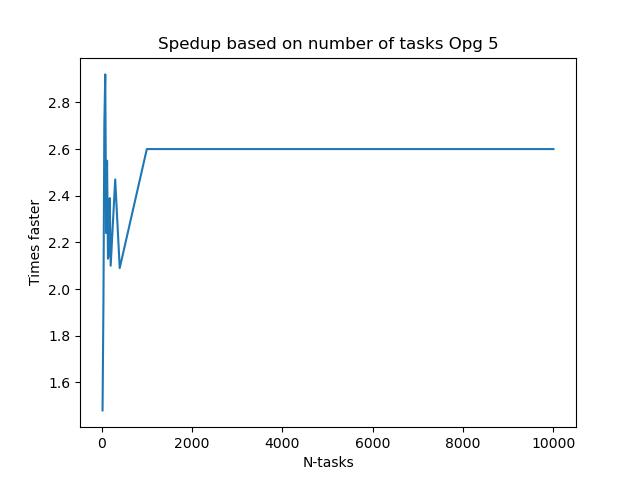
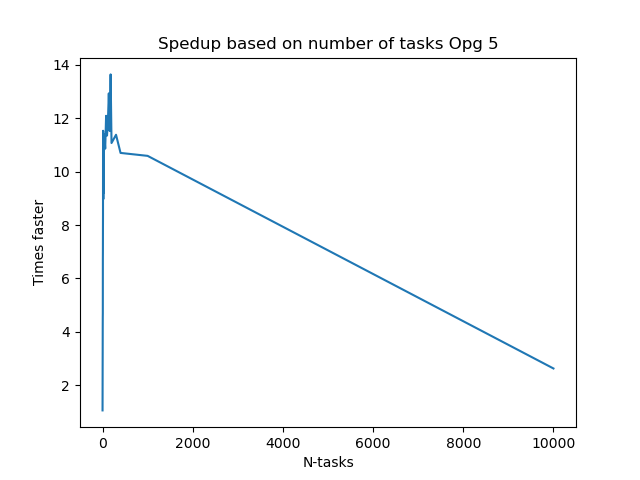
Plots

diff --git a/bin/plot3.py b/bin/plot3.py
@@ -4,7 +4,8 @@ x = [1, 2, 3, 4, 5, 6, 7, 8, 9, 10, 11, 12, 13, 14, 15, 16, 17, 18, 19, 20, 40, 
 # y_3 = [1.67, 2.83, 2.75, 2.11, 2.49, 1.78, 2.72, 2.29, 2.13, 3.25, 2.22, 1.95, 2.62, 2.01] # old
 # y_5 = [2.11, 2.17, 2.34, 2.35, 2.42, 1.59, 1.87, 1.99, 2.00, 1.87, 1.92, 1.87, 2.11, 1.95]  # old
 # y_3 = [1.56, 1.50, 2.41, 2.54, 2.91, 2.72, 3.28, 2.54, 3.48, 1.59, 2.88, 2.42, 3.43, 1.89]
-y_5 = [1.48, 1.95, 2.71, 2.92, 2.24, 2.55, 2.13, 2.15, 2.39, 2.10, 2.47, 2.09, 2.60, 2.60]
+# y_5 = [1.48, 1.95, 2.71, 2.92, 2.24, 2.55, 2.13, 2.15, 2.39, 2.10, 2.47, 2.09, 2.60, 2.60]
+y_5 = [1.060, 1.830, 2.640, 3.240, 4.110, 4.560, 4.690, 6.720, 7.030, 7.910, 8.370, 10.88, 10.85, 11.53, 9.180, 11.18, 9.390, 8.970, 9.640, 9.680, 11.39, 10.86, 12.09, 11.35, 11.88, 12.93, 11.52, 13.64, 11.07, 11.38, 10.70, 10.59, 2.630]
 
 y_3 = [1.00, 2.01, 2.96, 3.92, 4.89, 5.54, 3.52, 3.94, 4.46, 4.91, 5.28, 5.46, 4.36, 4.58, 4.94, 4.95, 5.42, 4.61, 4.74, 4.92, 5.49, 5.62, 5.70, 5.90, 5.91, 5.95, 6.01, 5.96, 5.96, 5.56, 5.78, 5.06, 2.01]
 

diff --git a/src/plot3.py b/src/plot3.py
@@ -4,7 +4,8 @@ x = [1, 2, 3, 4, 5, 6, 7, 8, 9, 10, 11, 12, 13, 14, 15, 16, 17, 18, 19, 20, 40, 
 # y_3 = [1.67, 2.83, 2.75, 2.11, 2.49, 1.78, 2.72, 2.29, 2.13, 3.25, 2.22, 1.95, 2.62, 2.01] # old
 # y_5 = [2.11, 2.17, 2.34, 2.35, 2.42, 1.59, 1.87, 1.99, 2.00, 1.87, 1.92, 1.87, 2.11, 1.95]  # old
 # y_3 = [1.56, 1.50, 2.41, 2.54, 2.91, 2.72, 3.28, 2.54, 3.48, 1.59, 2.88, 2.42, 3.43, 1.89]
-y_5 = [1.48, 1.95, 2.71, 2.92, 2.24, 2.55, 2.13, 2.15, 2.39, 2.10, 2.47, 2.09, 2.60, 2.60]
+# y_5 = [1.48, 1.95, 2.71, 2.92, 2.24, 2.55, 2.13, 2.15, 2.39, 2.10, 2.47, 2.09, 2.60, 2.60]
+y_5 = [1.060, 1.830, 2.640, 3.240, 4.110, 4.560, 4.690, 6.720, 7.030, 7.910, 8.370, 10.88, 10.85, 11.53, 9.180, 11.18, 9.390, 8.970, 9.640, 9.680, 11.39, 10.86, 12.09, 11.35, 11.88, 12.93, 11.52, 13.64, 11.07, 11.38, 10.70, 10.59, 2.630]
 
 y_3 = [1.00, 2.01, 2.96, 3.92, 4.89, 5.54, 3.52, 3.94, 4.46, 4.91, 5.28, 5.46, 4.36, 4.58, 4.94, 4.95, 5.42, 4.61, 4.74, 4.92, 5.49, 5.62, 5.70, 5.90, 5.91, 5.95, 6.01, 5.96, 5.96, 5.56, 5.78, 5.06, 2.01]
 

diff --git a/bin/plot4.py b/bin/plot4.py
@@ -38,10 +38,17 @@ data_4 = [
 
 # data_5 = [[0.106361, 0.079162, 0.078486, 0.049976, 0.034296], [0.091244, 0.079936, 0.047931, 0.051310, 0.040113], [0.106956, 0.078486, 0.056372, 0.049171, 0.049484]] # old
 
+# data_5 = [
+#     [0.94, 1.53, 1.81, 2.11, 2.34],
+#     [0.93, 1.44, 1.43, 2.49, 2.20],
+#     [0.85, 1.34, 1.99, 2.03, 2.09]
+# ]
+
+
 data_5 = [
-    [0.94, 1.53, 1.81, 2.11, 2.34],
-    [0.93, 1.44, 1.43, 2.49, 2.20],
-    [0.85, 1.34, 1.99, 2.03, 2.09]
+    [0.950, 2.810, 5.600, 10.19, 11.51],
+    [1.090, 2.630, 5.820, 10.59, 18.58],
+    [0.930, 2.480, 5.190, 6.390, 11.20]
 ]
 
 

diff --git a/src/plot4.py b/src/plot4.py
@@ -38,10 +38,17 @@ data_4 = [
 
 # data_5 = [[0.106361, 0.079162, 0.078486, 0.049976, 0.034296], [0.091244, 0.079936, 0.047931, 0.051310, 0.040113], [0.106956, 0.078486, 0.056372, 0.049171, 0.049484]] # old
 
+# data_5 = [
+#     [0.94, 1.53, 1.81, 2.11, 2.34],
+#     [0.93, 1.44, 1.43, 2.49, 2.20],
+#     [0.85, 1.34, 1.99, 2.03, 2.09]
+# ]
+
+
 data_5 = [
-    [0.94, 1.53, 1.81, 2.11, 2.34],
-    [0.93, 1.44, 1.43, 2.49, 2.20],
-    [0.85, 1.34, 1.99, 2.03, 2.09]
+    [0.950, 2.810, 5.600, 10.19, 11.51],
+    [1.090, 2.630, 5.820, 10.59, 18.58],
+    [0.930, 2.480, 5.190, 6.390, 11.20]
 ]
 
 
